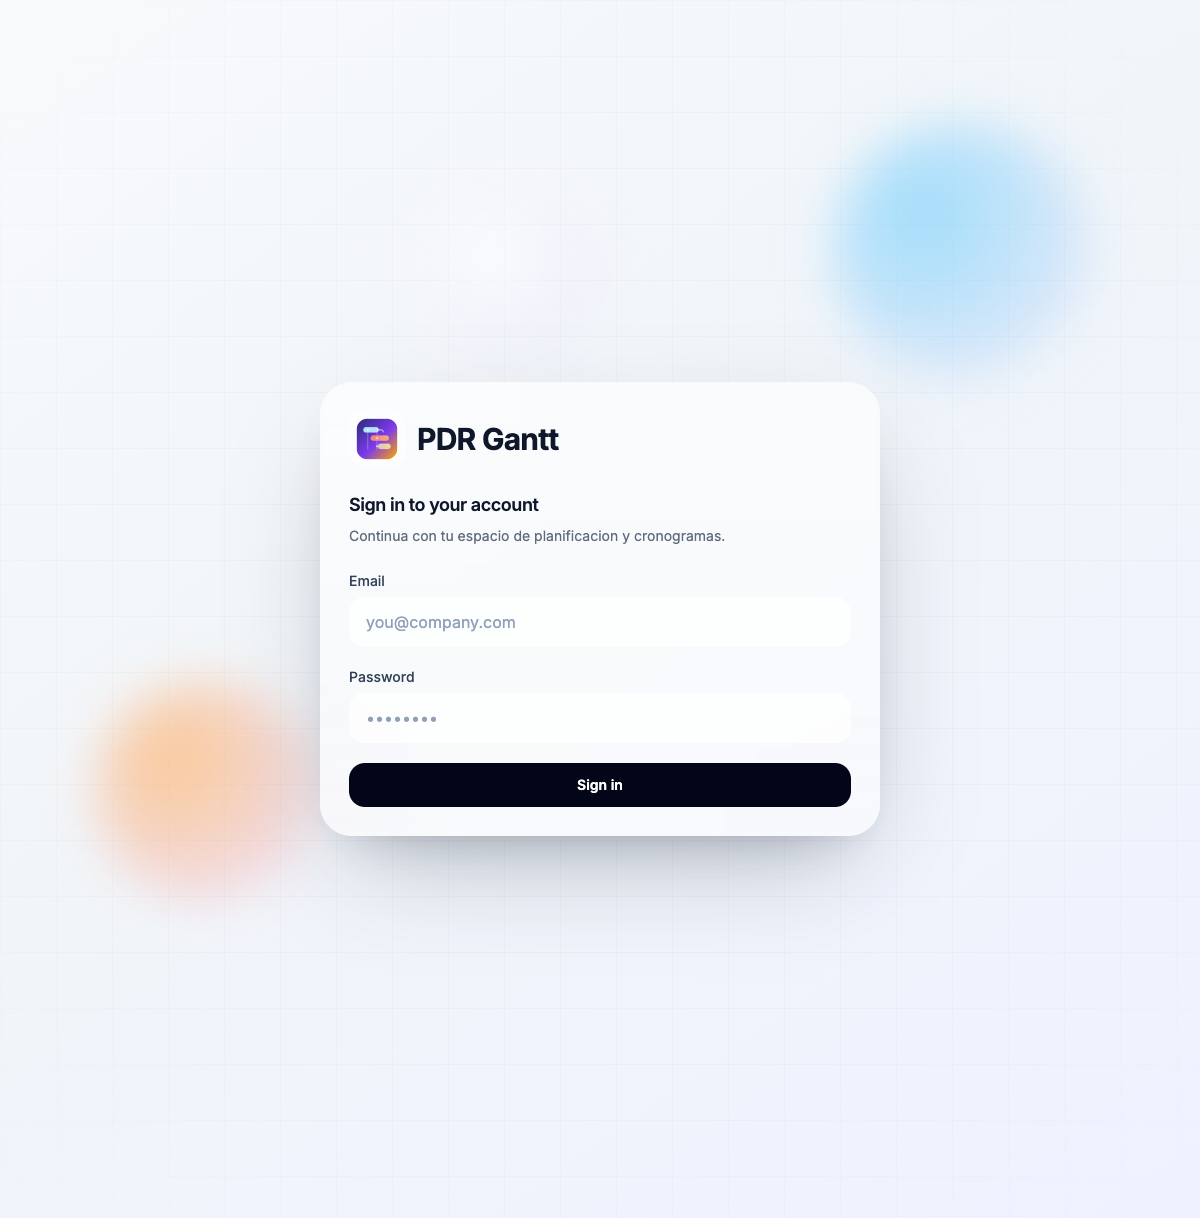
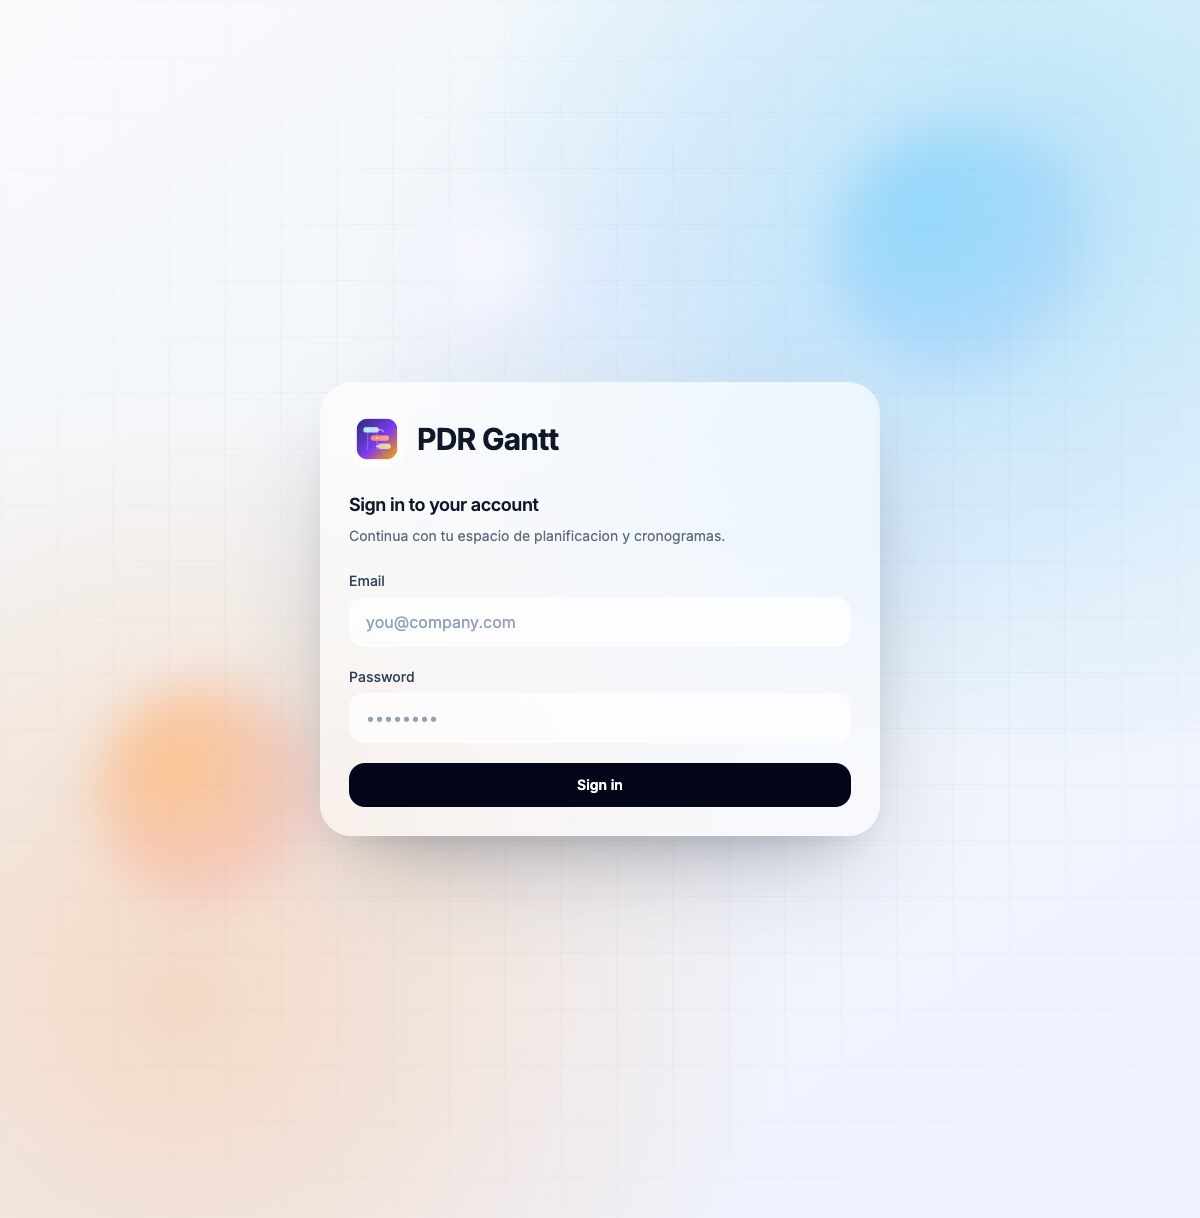
chore: align suite auth background with portal

diff --git a/react/SuiteAmbientBackground.tsx b/react/SuiteAmbientBackground.tsx
@@ -11,9 +11,9 @@ export type SuiteAmbientBackgroundProps = {
 
 const orbModes = {
   default: {
-    warm: "radial-gradient(circle at 35% 35%, rgba(253, 186, 116, 0.92), rgba(251, 113, 133, 0.24) 70%, transparent 82%)",
-    cool: "radial-gradient(circle at 35% 35%, rgba(125, 211, 252, 0.86), rgba(96, 165, 250, 0.2) 68%, transparent 80%)",
-    neutral: "radial-gradient(circle at 40% 40%, rgba(255, 255, 255, 0.88), rgba(196, 181, 253, 0.12) 70%, transparent 84%)"
+    warm: "var(--suite-orb-warm)",
+    cool: "var(--suite-orb-cool)",
+    neutral: "var(--suite-orb-neutral)"
   },
   warm: {
     warm: "radial-gradient(circle at 35% 35%, rgba(251, 191, 36, 0.88), rgba(251, 113, 133, 0.28) 70%, transparent 82%)",
@@ -32,7 +32,7 @@ function orbStyle(background: string, style: CSSProperties): CSSProperties {
     position: "absolute",
     borderRadius: 9999,
     filter: "blur(24px)",
-    opacity: 0.82,
+    opacity: 0.8,
     background,
     ...style,
   };
@@ -53,7 +53,7 @@ export function SuiteAmbientBackground({
           className="absolute inset-0"
           style={{
             backgroundImage:
-              "linear-gradient(to right, rgba(148, 163, 184, 0.06) 1px, transparent 1px), linear-gradient(to bottom, rgba(148, 163, 184, 0.06) 1px, transparent 1px)",
+              "linear-gradient(to right, var(--suite-grid-line) 1px, transparent 1px), linear-gradient(to bottom, var(--suite-grid-line) 1px, transparent 1px)",
             backgroundSize: "56px 56px",
             maskImage: "radial-gradient(circle at center, black 55%, transparent 100%)",
           }}

diff --git a/tokens/suite-login-tokens.css b/tokens/suite-login-tokens.css
@@ -1,9 +1,13 @@
 :root {
-  --suite-bg-base: linear-gradient(145deg, #f8fafc 0%, #f1f5f9 45%, #eef2ff 100%);
+  --suite-bg-base:
+    radial-gradient(circle at 15% 82%, rgba(251, 146, 60, 0.28), transparent 42%),
+    radial-gradient(circle at 88% 14%, rgba(56, 189, 248, 0.28), transparent 40%),
+    radial-gradient(circle at 64% 28%, rgba(191, 219, 254, 0.4), transparent 38%),
+    linear-gradient(145deg, #f8fafc 0%, #f1f5f9 45%, #eef2ff 100%);
   --suite-grid-line: rgba(148, 163, 184, 0.06);
-  --suite-orb-warm: radial-gradient(circle at 35% 35%, rgba(253, 186, 116, 0.92), rgba(251, 113, 133, 0.24) 70%, transparent 82%);
-  --suite-orb-cool: radial-gradient(circle at 35% 35%, rgba(125, 211, 252, 0.86), rgba(96, 165, 250, 0.2) 68%, transparent 80%);
-  --suite-orb-neutral: radial-gradient(circle at 40% 40%, rgba(255, 255, 255, 0.88), rgba(196, 181, 253, 0.12) 70%, transparent 84%);
+  --suite-orb-warm: radial-gradient(circle at 35% 35%, rgba(253, 186, 116, 0.95), rgba(251, 113, 133, 0.25) 70%, transparent 80%);
+  --suite-orb-cool: radial-gradient(circle at 35% 35%, rgba(125, 211, 252, 0.9), rgba(96, 165, 250, 0.2) 68%, transparent 78%);
+  --suite-orb-neutral: radial-gradient(circle at 40% 40%, rgba(255, 255, 255, 0.9), rgba(196, 181, 253, 0.15) 70%, transparent 82%);
   --suite-panel-bg: rgba(255, 255, 255, 0.45);
   --suite-panel-border: rgba(255, 255, 255, 0.25);
   --suite-panel-shadow: 0 42px 108px -36px rgba(15, 23, 42, 0.36), 0 22px 42px -28px rgba(15, 23, 42, 0.2), inset 0 1px 0 rgba(255, 255, 255, 0.48);

diff --git a/react/suite-auth-theme.ts b/react/suite-auth-theme.ts
@@ -1,8 +1,15 @@
 import type { CSSProperties } from "react";
 
 export const suiteAuthVars = {
-  ["--suite-bg-base" as string]: "linear-gradient(145deg, #f8fafc 0%, #f1f5f9 45%, #eef2ff 100%)",
+  ["--suite-bg-base" as string]:
+    "radial-gradient(circle at 15% 82%, rgba(251, 146, 60, 0.28), transparent 42%), radial-gradient(circle at 88% 14%, rgba(56, 189, 248, 0.28), transparent 40%), radial-gradient(circle at 64% 28%, rgba(191, 219, 254, 0.4), transparent 38%), linear-gradient(145deg, #f8fafc 0%, #f1f5f9 45%, #eef2ff 100%)",
   ["--suite-grid-line" as string]: "rgba(148, 163, 184, 0.06)",
+  ["--suite-orb-warm" as string]:
+    "radial-gradient(circle at 35% 35%, rgba(253, 186, 116, 0.95), rgba(251, 113, 133, 0.25) 70%, transparent 80%)",
+  ["--suite-orb-cool" as string]:
+    "radial-gradient(circle at 35% 35%, rgba(125, 211, 252, 0.9), rgba(96, 165, 250, 0.2) 68%, transparent 78%)",
+  ["--suite-orb-neutral" as string]:
+    "radial-gradient(circle at 40% 40%, rgba(255, 255, 255, 0.9), rgba(196, 181, 253, 0.15) 70%, transparent 82%)",
   ["--suite-panel-bg" as string]: "rgba(255, 255, 255, 0.45)",
   ["--suite-panel-border" as string]: "rgba(255, 255, 255, 0.25)",
   ["--suite-panel-shadow" as string]: "0 42px 108px -36px rgba(15, 23, 42, 0.36), 0 22px 42px -28px rgba(15, 23, 42, 0.2), inset 0 1px 0 rgba(255, 255, 255, 0.48)",

diff --git a/README.md b/README.md
@@ -18,3 +18,14 @@ Esta base no se publica como paquete npm. Las apps consumidoras copian los archi
 ## Fuente visual
 
 El baseline actual se deriva de `portal-web`, que define el fondo atmosferico y el panel premium aprobados para la suite.
+
+## Sync
+
+Para propagar cambios del foundation a las apps consumidoras:
+
+```bash
+cd /Users/mauro/suite-ui-foundation
+./scripts/sync-suite-auth.sh
+```
+
+Este script sincroniza los componentes React compartidos a `pdr-gantt-master` y `Tasko.ai`, manteniendo el encabezado de origen en cada archivo vendorizado.
